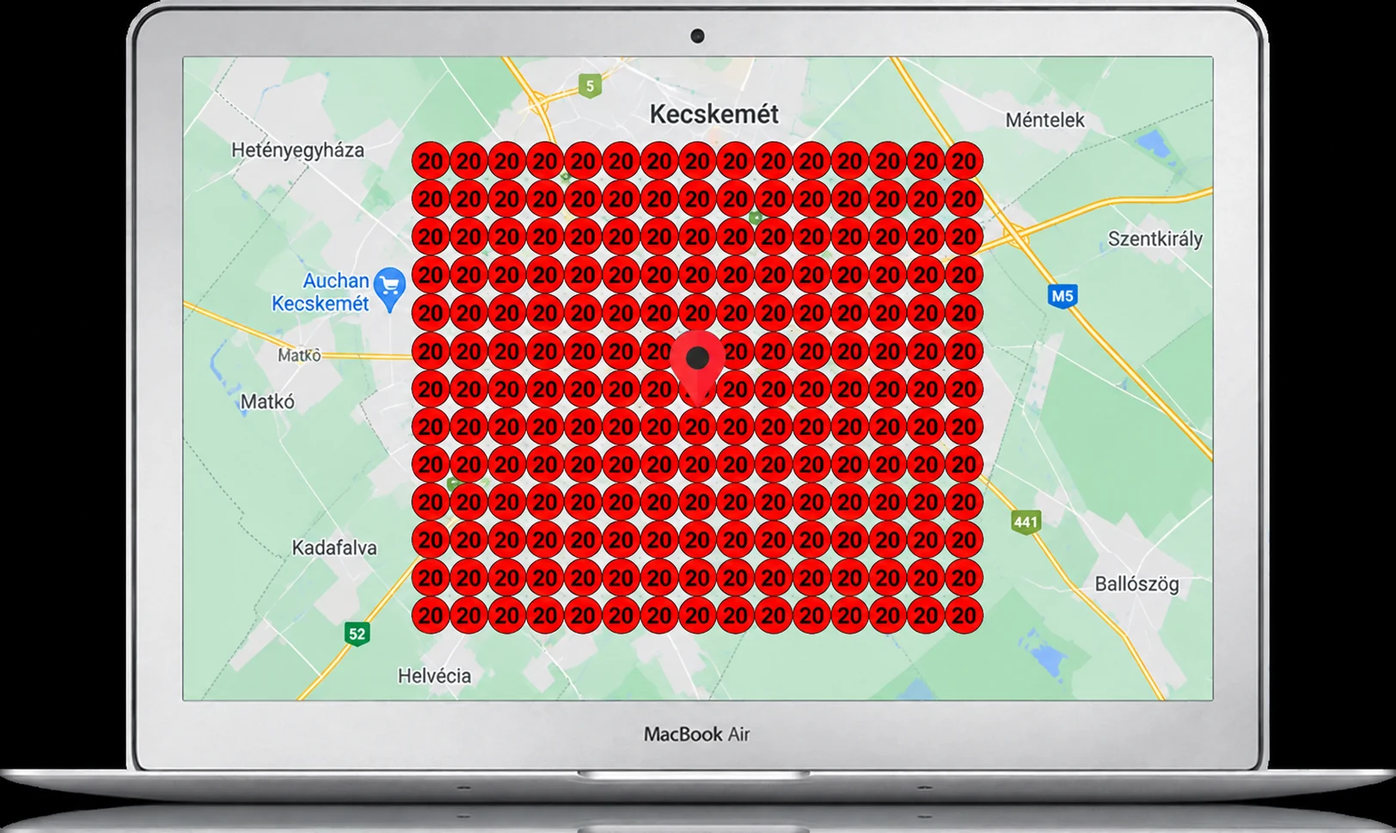
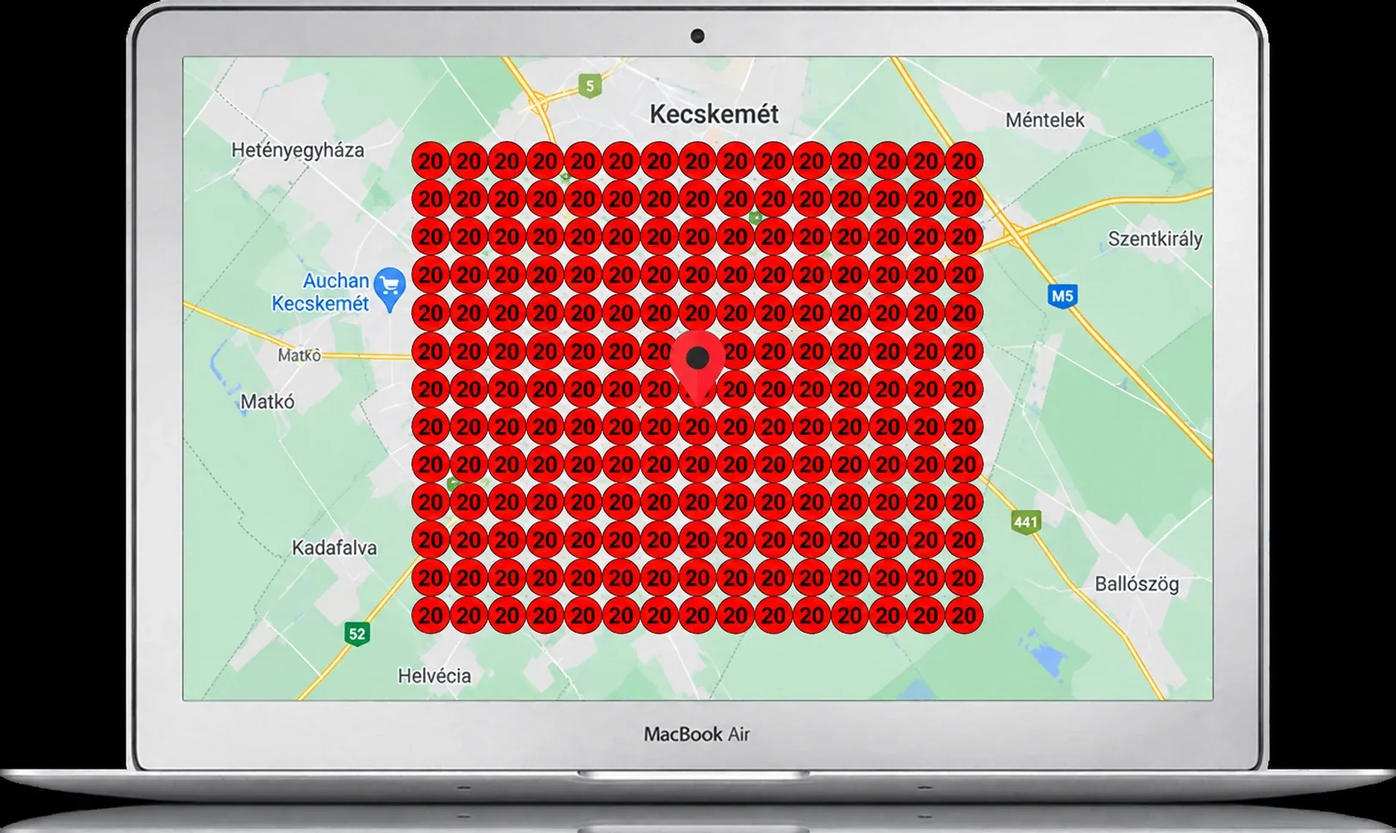
fix: improve sitemap accuracy and optimize map images

diff --git a/reports/seo-visibility-audit-2026-11-24.html b/reports/seo-visibility-audit-2026-11-24.html
@@ -1,0 +1,118 @@
+<!doctype html>
+<html lang="hu">
+<head>
+  <meta charset="utf-8">
+  <meta name="viewport" content="width=device-width, initial-scale=1">
+  <meta name="description" content="Dátumozott, bizonyítékokra épülő áttekintés a Kiszely Marketing Google-keresési, AI-keresési és érdeklődőmérési állapotáról.">
+  <title>Kiszely Marketing | Láthatósági audit, 2026. november 24.</title>
+  <style>
+    :root{color-scheme:light;--ink:#18243b;--muted:#526078;--line:#dce3ed;--paper:#f5f7fb;--blue:#2457a7;--good:#e3f4e9;--good-ink:#17633b;--part:#fff1d7;--part-ink:#805000;--todo:#fde8e7;--todo-ink:#8a3028;--na:#e9edf3;--white:#fff}
+    *{box-sizing:border-box}body{margin:0;background:var(--paper);color:var(--ink);font:16px/1.6 system-ui,-apple-system,"Segoe UI",sans-serif}main{max-width:940px;margin:auto;padding:24px 16px 64px}header{padding:28px 24px;background:var(--white);border:1px solid var(--line);border-radius:18px}h1{font-size:clamp(1.8rem,5vw,2.6rem);line-height:1.15;margin:8px 0 12px}h2{font-size:1.35rem;line-height:1.3;margin:0 0 12px}h3{font-size:1.05rem;margin:0 0 8px}.eyebrow{color:var(--blue);font-weight:700;letter-spacing:.04em}.muted{color:var(--muted)}.cards{display:grid;grid-template-columns:repeat(4,1fr);gap:10px;margin:18px 0}.card,.panel{background:var(--white);border:1px solid var(--line);border-radius:14px;padding:16px}.card strong{display:block;font-size:1.65rem;line-height:1.2}.section{margin-top:22px}.status{display:inline-block;padding:3px 10px;border-radius:999px;font-size:.85rem;font-weight:700}.done{background:var(--good);color:var(--good-ink)}.partial{background:var(--part);color:var(--part-ink)}.todo{background:var(--todo);color:var(--todo-ink)}.na{background:var(--na);color:#465267}.fix{display:grid;gap:12px}.fix article{background:white;border:1px solid var(--line);border-radius:14px;padding:16px}.fix h3{display:flex;align-items:center;gap:10px}.bar{height:12px;background:#e8edf4;border-radius:99px;overflow:hidden}.bar span{display:block;height:100%;background:var(--blue)}.metric{display:grid;grid-template-columns:1fr auto;gap:8px;align-items:center;margin:12px 0}.metric small{color:var(--muted)}details{background:var(--white);border:1px solid var(--line);border-radius:12px;padding:14px 16px;margin:10px 0}summary{font-weight:700;cursor:pointer}ul{padding-left:22px}li{margin:6px 0}.source{font-size:.9rem;color:var(--muted);overflow-wrap:anywhere}footer{margin-top:24px;color:var(--muted);font-size:.9rem}@media(max-width:640px){main{padding:14px 12px 40px}.cards{grid-template-columns:repeat(2,1fr)}header{padding:22px 18px}.card,.panel{padding:13px}}
+  </style>
+</head>
+<body>
+<main>
+  <header>
+    <div class="eyebrow">KISZELY MARKETING · LÁTHATÓSÁGI AUDIT</div>
+    <h1>A weboldal technikailag rendben van, de a két pontos célkifejezés még nem hozott jelentett megjelenést, és a GA4 nem rögzített fontos eseményt.</h1>
+    <p class="muted">Állapot: 2026. november 24. A Search Console legfrissebb adatai november 22-ig tartanak. A jelentés külön kezeli az organikus keresést, a Google AI-felületeket, a webhelylátogatást és a rögzített érdeklődéseket.</p>
+    <div class="cards" aria-label="Audit állapotok">
+      <div class="card"><strong>83</strong><span class="status done">Mért adat</span><p>Google generatív AI-megjelenés a 3 hónapos jelentésben</p></div>
+      <div class="card"><strong>8</strong><span class="status partial">Kizárt URL</span><p>4 átirányítás, 4 feltérképezésre váró URL</p></div>
+      <div class="card"><strong>0</strong><span class="status todo">Nincs rögzítve</span><p>GA4 fontos esemény az elmúlt 28 napban</p></div>
+      <div class="card"><strong>1</strong><span class="status na">Kihagyva</span><p>referenciamunkák közzététele, kérésed szerint</p></div>
+    </div>
+  </header>
+
+  <section class="section panel">
+    <h2>Mit mutat a Google Search Console?</h2>
+    <p class="muted">Időszak: 2026. szeptember 19. – november 22. Az átlagos pozíció az adott oldal összes lekérdezésének átlaga, nem egyetlen kifejezés stabil helyezése.</p>
+    <div class="metric"><div><b>Teljes webhely</b><br><small>Kattintás · megjelenés · átlagos pozíció</small></div><b>48 · 449 · 23,8</b></div>
+    <div class="metric"><div><b>Weboldalkészítő útmutató</b><br><small>9 kattintás · 80 megjelenés · 11,2% CTR</small></div><b>átlagos pozíció 6,8</b></div>
+    <div class="metric"><div><b>Marketingügynökség útmutató</b><br><small>1 kattintás · 53 megjelenés · 1,9% CTR</small></div><b>átlagos pozíció 16,2</b></div>
+    <p><b>A két pontos célkifejezés:</b> a Search Console „tartalmazza ezt a kifejezést” szűrőjében mindkettőnél 0 kattintás és 0 jelentett megjelenés szerepel a három hónapos időszakban. A ritka lekérdezések kimaradhatnak a jelentésből. A céloldalak összesített megjelenései más keresésekből származnak.</p>
+    <div class="metric"><div><b>Google generatív AI-felületek</b><br><small>Három hónap; nem ChatGPT-, Gemini- vagy Perplexity-mérés</small></div><b>83 megjelenés</b></div>
+    <p class="source">Az AI-megjelenésekből a kezdőlap 34-et, a weboldalkészítő útmutató 22-t, a marketingügynökség útmutató 13-at kapott. Ez a Google AI-felületének láthatósága, nem bizonyítja a márka megnevezését, idézését vagy érdeklődők érkezését.</p>
+  </section>
+
+  <section class="section panel">
+    <h2>Screaming Frog · friss webhelybejárás</h2>
+    <p class="muted">Ellenőrizve: 2026. november 24. A 64 bejárt URL között 26 HTML-oldal és technikai erőforrások szerepeltek. A crawler 0 kritikus hibát, 4 alacsony szintű figyelmeztetést és 12 lehetőséget jelzett. A jelzések közül több általános küszöbérték, ezért önmagukban nem jelentenek hibát.</p>
+    <ul>
+      <li><b>Indexelhetőség:</b> a Search Console 22 indexelt és 8 nem indexelt URL-t mutat. A 4 átirányításos URL a http/https és www/non-www főoldal-változat. A további 4 felfedezett, de még fel nem térképezett URL az adatkezelés, az ÁSZF, az ügyfélszolgálat és a weboldal-felújítás oldal. Az első három tájékoztató oldal; a weboldal-felújítás aktív szolgáltatási oldal. A 2026. november 24-i URL-ellenőrzés megerősítette: a Google felfedezte a sitemapben, de még nem térképezte fel. Az élő URL-teszt szerint az oldal elérhető és indexelhető; ugyanazon a napon indexelési kérelmet küldtem. A Google általi feltérképezés és indexelés még nem történt meg.</li>
+      <li><b>Címek:</b> 16/26 oldal címe hosszabb 60 karakternél és 16/26 meghaladja az eszköz 561 pixeles jelzését. Ez nem automatikus javítási feladat. A két céloldal címe rövid és teljes: „Legjobb weboldalkészítő Magyarországon” (38 karakter) és „Legjobb marketing ügynökség kisvállalkozásoknak Magyarországon” (62 karakter, 605 pixel). A Google tényleges találati címét ettől függetlenül ő választhatja meg.</li>
+      <li><b>Rövid oldalak:</b> a három 200 szó alatti oldal a Kapcsolat, Rólunk és Ügyfélszolgálat oldal. Ezek rövidsége önmagában nem indokolja a bővítést.</li>
+      <li><b>Képek:</b> az audit után a két térképes WebP-forrásképet újratömörítettem; a zöld változat 205,8 kB-ról 175,4 kB-ra, a piros 213,3 kB-ról 177,6 kB-ra csökkent, a méretük és vizuális tartalmuk változatlan. A helyi buildből kért 640 px-es mobilváltozatok 43,7 kB és 39,7 kB méretűek voltak. A módosítás utáni teljes crawl még szükséges.</li>
+      <li><b>Figyelmeztetések:</b> a Screaming Frog 1 belső átirányítást jelzett, de a mentett export nem tartalmazta a forrás URL-t. A 2026. november 24-i helyi build-ellenőrzés 26 sitemapoldal 26 egyedi belső célcímét vizsgálta, átirányítás vagy hibás cél nélkül; a Screaming Frog-jelzés pontos oka ezért még nincs feloldva. 25 oldalon több H2-cím (ez általában normális); a vizsgált HTML-oldalakon hiányzik a Content-Security-Policy és az X-Frame-Options fejléc. Ezek biztonsági konfigurációs kérdések, nem közvetlen rangsorolási hibák. Fejlesztői felülvizsgálat javasolt, mielőtt bármelyik fejlécet beállítjuk.</li>
+      <li><b>Vercel és AI-botok:</b> a Production a <code>main</code> ágról, a <code>42686e319ac4683922550d9f8186d142be66e79a</code> commitból fut. A Vercel Bot Management szerint az általános Bot Protection ki van kapcsolva, az AI-botok engedélyezve vannak, és nincs egyedi bot szabály. Az elmúlt 24 órában 1,4 ezer botkérést, köztük 7 ellenőrzött OAI-SearchBot-kérést mutatott. A nov. 17–24-i Firewall Audit Logban nem volt tűzfalaktivitás; ez szabályesemények hiányát jelenti, nem azt, hogy nem érkeztek botkérések.</li>
+      <li><b>Elmentett részlet:</b> a Screaming Frog címjelentése a <code>reports/screamingfrog-page-titles-2026-11-24.csv</code> fájlban található.</li>
+    </ul>
+  </section>
+
+  <section class="section panel">
+    <h2>Mobilélmény és mérés</h2>
+    <ul>
+      <li><b>PageSpeed mobil laboreredmény:</b> a kezdőlap 97/100 teljesítményt ért el; a weboldalkészítési oldal, a Google Térkép Top 3 oldal és a két célkifejezés útmutatója 100/100-at kapott. Ezek külön lefuttatott laborpróbák, nem a látogatók hosszabb távú sebességadatai.</li>
+      <li><b>PageSpeed-jelentések:</b> <a href="https://pagespeed.web.dev/analysis/https-www-kiszelymarketing-com/6jd4kzr0xbe6zh8um79ada?form_factor=mobile">kezdőlap</a>, <a href="https://pagespeed.web.dev/analysis/https-www-kiszelymarketing-com-hu-weboldal-keszites-budapest/fydl2iafsj770tn447tjhe?form_factor=mobile">weboldalkészítés</a>, <a href="https://pagespeed.web.dev/analysis/https-www-kiszelymarketing-com-hu-google-terkep-top-3/bfem2fe96xyoqgm0jbk0tt?form_factor=mobile">Google Térkép Top 3</a>, <a href="https://pagespeed.web.dev/analysis/https-www-kiszelymarketing-com-hu-tudastar-legjobb-weboldalkeszito-magyarorszagon/v6et1ht5n6mqol05n3nm2p?form_factor=mobile">weboldalkészítő útmutató</a>, <a href="https://pagespeed.web.dev/analysis/https-www-kiszelymarketing-com-hu-tudastar-legjobb-marketing-ugynokseg-kisvallalkozasoknak-magyarorszagon/e8s20fdxf4140zjwjikjgu?form_factor=mobile">marketingügynökség útmutató</a>.</li>
+      <li><b>Valós felhasználói sebességadat:</b> a PageSpeed és Search Console Core Web Vitals jelentésben nincs elég CrUX/GSC adat az értékeléshez.</li>
+      <li><b>Reszponzivitás:</b> a kezdőlap 360 és 390 pixeles szélességen nem mutatott vízszintes túlcsordulást. Ez a két méret a kezdőlapra vonatkozik, nem minden oldal teljes körű mobil QA-ja.</li>
+      <li><b>GA4:</b> az elmúlt 28 nap összefoglalója 8 aktív felhasználót, 100 eseményt, 39 oldalmegtekintést és 0 fontos eseményt mutat. Az elmúlt 7 nap kártyája 7 organikus keresési, 1 közvetlen és 1 organikus közösségi munkamenetet jelez. A <code>generate_lead</code> esemény kulcseseményként be van állítva, de az elmúlt 28 napban nem látszott hozzá adat. Ez azt jelenti, hogy GA4 nem rögzített konverziót ezen az időszakon belül, nem azt, hogy biztosan nem érkezett érdeklődés.</li>
+    </ul>
+  </section>
+
+  <section class="section">
+    <h2>Elsőként kezelendő teendők</h2>
+    <div class="fix">
+      <article><h3><span class="status todo">1</span> GA4 érdeklődési esemény működésének igazolása</h3><p>A <code>generate_lead</code> kulcsesemény be van állítva, és a kód csak sikeres űrlapküldés után, analitikai hozzájárulással küldi. Az elmúlt 28 napban nem érkezett ilyen adat. Éles tesztűrlapot nem küldtem; az esemény tényleges működését staging környezetben vagy egy valódi, hozzájárulással érkező érdeklődés után lehet igazolni.</p></article>
+      <article><h3><span class="status partial">2</span> A weboldal-felújítás indexelésének követése</h3><p>A 2026. november 24-i élő URL-teszt szerint az oldal elérhető és indexelhető, de a Google még nem térképezte fel. A sitemap sikeres, 26 URL-t tartalmaz, és a felújítási oldal hivatkozó oldalaként is megjelenik. Indexelési kérelmet küldtem; a következő ellenőrzéskor azt kell megnézni, hogy történt-e feltérképezés és indexelés.</p></article>
+      <article><h3><span class="status partial">3</span> A belső átirányítás pontosítása</h3><p>A Screaming Frog egy belső átirányítást jelzett, de a forrás URL hiányzik az elmentett exportból. A helyi build ellenőrzés nem talált átirányító belső linket. Új Screaming Frog-export alapján előbb meg kell keresni a pontos hivatkozást, és csak igazolt forrás esetén módosítani. A két képtömörítési módosítást és a 640 px-es mobilváltozatokat ellenőriztem; teljes új crawl még hátravan.</p></article>
+      <article><h3><span class="status partial">4</span> AI-keresési alapmérés frissítése</h3><p>A november 6-i napló tartalmaz 25 vevői kérdést és néhány ismételt Google AI Mode- és Perplexity-mintát. A 10 kérdés × 5 futás × 6 asszisztens protokoll nincs kész. A Google Search Console 83 AI-megjelenése nem bizonyít ChatGPT-, Gemini-, Claude-, Grok- vagy Perplexity-ajánlást.</p></article>
+      <article><h3><span class="status partial">5</span> Tartalmi döntés előtt vevői bizonyíték gyűjtése</h3><p>A két pontos célkifejezésre nincs jelentett Search Console-adat, miközben mindkét céloldal kap megjelenéseket más keresésekből. A következő tartalmi módosítást valós érdeklődői kérdések, Search Console-lekérdezések és ismételt AI-forrásminták alapján érdemes kijelölni.</p></article>
+    </div>
+  </section>
+
+  <section class="section panel">
+    <h2>Ami már működik</h2>
+    <ul>
+      <li>A 2026. november 24-i nyilvános sitemap 26 URL-jét lekértem: mindegyik 200-as választ, egy H1-et, önmagára mutató kanonikus címet és index/follow jelölést adott.</li>
+      <li>35 egyedi, webhelyen belüli hivatkozást ellenőriztem; nem találtam hibás belső linket.</li>
+      <li>A gyökércím és a /hu cím 308-as átirányítással a https://www.kiszelymarketing.com/hu/ címre jut. Ez állandó átirányítás.</li>
+      <li>Az OAI-SearchBot felhasználói azonosítóval kért szolgáltatási oldal 200-as választ adott. Ez egy lekéréses ellenőrzés, nem a bot naplózott, hitelesített látogatásának bizonyítéka.</li>
+      <li>A vizsgált weboldalkészítő útmutató indexelve van, a Google mobilrobotja feltérképezte, és a megadott kanonikus cím önmagára mutat.</li>
+      <li>A robots.txt általánosan engedélyezi a feltérképezést; a sitemap címe szerepel benne.</li>
+      <li>A kapcsolatfelvételi űrlap rákérdez arra, honnan hallott a vállalkozásról.</li>
+      <li>A weboldalkészítő útmutató más kapcsolódó lekérdezésekből kattintásokat kapott; a pontos célkifejezés eredménye ettől külön mérendő.</li>
+    </ul>
+  </section>
+
+  <section class="section">
+    <h2>Részletes ellenőrzőlista</h2>
+    <details><summary>Általános SEO · teljes státusz</summary><ul>
+      <li><span class="status partial">Részben kész</span> Search Console és GA4 kapcsolódik. A <code>generate_lead</code> kulcsesemény be van állítva, de 28 nap alatt nem érkezett mérési adat, ezért a tényleges működése nincs igazolva.</li>
+      <li><span class="status partial">Részben kész</span> Robots, kanonikus és fő útvonalak rendben. Screaming Frog: 64 URL, 0 kritikus hiba és 4 alacsony figyelmeztetés. A GSC 4 átirányításos URL-t és 4 még fel nem térképezett oldalt sorol. A Vercelben az AI-botok engedélyezettek; az ellenőrzött 24 órában 7 OAI-SearchBot-kérés látszott. Az auditnaplóban nem volt szabályaktivitás a vizsgált hét nap alatt.</li>
+      <li><span class="status partial">Részben kész</span> Címek és crawl ellenőrizve. Öt mobil PageSpeed laborpróba 97–100-as teljesítménypontot mutatott; a kezdőlap 360/390 pixelen nem túlcsordul. A weboldal-felújítás indexelését, a Screaming Frog belsőátirányítás-jelzésének tisztázását, alt-szövegek teljes felülvizsgálatát, az új képtömörítés utáni teljes crawl-t, teljes swap-checket és versenytárs-linkprofilt még kezelni kell.</li>
+      <li><span class="status partial">Részben kész</span> Tartalmi klaszter létezik; teljes tényellenőrzés és oldalak közötti swap-check nem dokumentált.</li>
+      <li><span class="status todo">Nincs ellenőrizve</span> Versenytársankénti hivatkozó domainek és gyanús linknövekedés.</li>
+      <li><span class="status todo">Következő munka</span> E jelentés után ugyanilyen vizuális utóellenőrzés a javítások után.</li>
+    </ul></details>
+    <details><summary>AI SEO · teljes státusz</summary><ul>
+      <li><span class="status done">Ellenőrizve</span> A robots.txt engedélyezi az AI-robotokat, a Vercel Bot Management pedig engedélyezett állapotot mutat; az elmúlt 24 órában 7 ellenőrzött OAI-SearchBot-kérés jelent meg. A Firewall Audit Logban nem volt szabályesemény, ezért abból nem következtetünk botforgalomra.</li>
+      <li><span class="status partial">Részben kész</span> Űrlap forrásmező létezik, és a korábbi GA4-csatornacsoport felismerte az AI Assistant forrást. A <code>generate_lead</code> kulcsesemény be van állítva, de 28 nap alatt nem látszik adat.</li>
+      <li><span class="status partial">Részben kész</span> 25 buyer prompt van a november 6-i naplóban; csak néhány promptot és két asszisztenst teszteltünk ismételten. A teljes 6 asszisztenses alapmérés nincs kész.</li>
+      <li><span class="status todo">Nincs kész</span> Idézett források és lehetséges megjelenési helyek promptonkénti vizsgálata.</li>
+      <li><span class="status partial">Részben kész</span> Szolgáltatási és tudástári oldalak vannak; az AI-kérdések, árak, szerzői hitelesség és külső források teljes gap-elemzése hiányzik.</li>
+      <li><span class="status todo">Nincs kész</span> Harmadik féltől származó listák, valódi szakmai említések, review- és címtár-audit.</li>
+    </ul></details>
+    <details><summary>Helyi SEO · alkalmazhatóság</summary><ul>
+      <li><span class="status na">Nem alkalmazható jelenleg</span> Saját magyar GBP és rangsorrács: a vállalkozás online működéséről és magyarországi személyes ügyfélkapcsolat hiányáról számoltál be. Ne hozzunk létre nem jogosult profilt.</li>
+      <li><span class="status partial">Ügyfélmunkánál alkalmazandó</span> Hőtérkép, versenytársak, GBP jogosultság és optimalizálás, webhely, idézetek és heti rutin csak konkrét, jogosult ügyfélre végezhető el.</li>
+      <li><span class="status na">Nem alkalmazható a saját GBP-re</span> Heti profilposztok, munkafotók és review-k.</li>
+    </ul></details>
+    <details><summary>Kihagyott terület</summary><p>A két referencia-webhely közzététele nem része ennek a feladatnak, kérésed szerint. Nem használtam kitalált ügyféladatot vagy eredményt.</p></details>
+  </section>
+  <footer>
+    <p><b>Adatforrások:</b> Google Search Console domain property (2026-09-19–2026-11-22), URL Inspection és élő URL-teszt (2026-11-24), beküldött sitemap (utoljára beolvasva 2026-11-23), GA4 főoldali áttekintés és eseménybeállítások (ellenőrizve 2026-11-24), öt PageSpeed Insights mobilteszt, kezdőlap 360/390 pixeles ellenőrzése, webhely kódja, Screaming Frog crawl (64 URL, 2026-11-24), Vercel projekt-, Production- és botkezelési adatai (2026-11-24) és a 2026-11-06-i AI-alapnapló. Változásnapló: 2026-11-24, két sitemap <code>lastmod</code> dátumot a forrásban ellenőrzött tartalmi frissítéshez igazítottam (weboldalkészítési szolgáltatás: nov. 21.; Google Cégprofil-optimalizálási útmutató: nov. 7.); az indító ellenőrzésben az elavult weboldal-főcím elvárását a jelenlegi, már jóváhagyott címre igazítottam; más weboldalszöveg, dizájn, ár, útvonal vagy séma nem változott. Indexelési kérelmet küldtem a weboldal-felújítás URL-jére. A Production a <code>main</code> ágról működik; az AI-botok engedélyezettek, és 7 OAI-SearchBot-kérés szerepelt az elmúlt 24 órában. Az audit után a térképes WebP-forrásképek méretét 205,8/213,3 kB-ról 175,4/177,6 kB-ra csökkentettem; a helyi build 640 px-es változatai 43,7/39,7 kB-osak voltak. A módosítás utáni teljes crawl még hátravan. Az audit nem ígér Google-helyezést, AI-ajánlást vagy érdeklődőszámot.</p>
+  </footer>
+</main>
+</body>
+</html>

diff --git a/app/sitemap.ts b/app/sitemap.ts
@@ -6,18 +6,20 @@ export default function sitemap(): MetadataRoute.Sitemap {
   const homepageModified = new Date('2026-10-28T00:00:00+03:00')
   const mapsServiceModified = new Date('2026-10-28T00:00:00+03:00')
   const websiteContentModified = new Date('2026-10-08T00:00:00+03:00')
+  const websiteServiceModified = new Date('2026-11-21')
+  const businessProfileGuideModified = new Date('2026-11-07')
   const bestCreatorGuideModified = new Date('2026-11-22')
   const acquisitionContentModified = new Date('2026-10-31')
 
   return [
     { url: `${siteUrl}/hu/`, lastModified: homepageModified, changeFrequency: 'weekly', priority: 1 },
     { url: `${siteUrl}/hu/google-terkep-top-3/`, lastModified: mapsServiceModified, changeFrequency: 'monthly', priority: 0.9 },
-    { url: `${siteUrl}/hu/weboldal-keszites-budapest/`, lastModified: acquisitionContentModified, changeFrequency: 'monthly', priority: 0.9 },
+    { url: `${siteUrl}/hu/weboldal-keszites-budapest/`, lastModified: websiteServiceModified, changeFrequency: 'monthly', priority: 0.9 },
     { url: `${siteUrl}/hu/weboldal-felujitas/`, lastModified: acquisitionContentModified, changeFrequency: 'monthly', priority: 0.8 },
     { url: `${siteUrl}/hu/tudastar/`, lastModified: acquisitionContentModified, changeFrequency: 'weekly', priority: 0.7 },
     { url: `${siteUrl}/hu/tudastar/google-cegprofil-letrehozasa/`, lastModified: acquisitionContentModified, changeFrequency: 'monthly', priority: 0.7 },
     { url: `${siteUrl}/hu/tudastar/google-terkep-rangsorolas/`, lastModified, changeFrequency: 'monthly', priority: 0.7 },
-    { url: `${siteUrl}/hu/tudastar/google-cegprofil-optimalizalas/`, lastModified: acquisitionContentModified, changeFrequency: 'monthly', priority: 0.7 },
+    { url: `${siteUrl}/hu/tudastar/google-cegprofil-optimalizalas/`, lastModified: businessProfileGuideModified, changeFrequency: 'monthly', priority: 0.7 },
     { url: `${siteUrl}/hu/tudastar/organikus-talalat-vagy-google-terkep/`, lastModified, changeFrequency: 'monthly', priority: 0.7 },
     { url: `${siteUrl}/hu/tudastar/google-cegprofil-kategoria-valasztas/`, lastModified, changeFrequency: 'monthly', priority: 0.7 },
     { url: `${siteUrl}/hu/tudastar/szolgaltatasi-terulet-beallitas/`, lastModified, changeFrequency: 'monthly', priority: 0.7 },

diff --git a/reports/seo-change-log-2026-11.md b/reports/seo-change-log-2026-11.md
@@ -1,0 +1,22 @@
+# SEO and visibility change log
+
+## 2026-11-24
+
+- **Website:** Corrected only two sitemap `lastmod` dates to match verified substantial content updates: website service page (Nov 21) and Google Business Profile optimization guide (Nov 7). No page copy, design, pricing, routes, canonical metadata, schema, tracking, or service configuration changed.
+- **Google Search Console:** Inspected `/hu/weboldal-felujitas/`. The URL is discovered through the submitted sitemap and is live-test available/indexable, but currently reported as “Discovered – currently not indexed.” Sent one indexing request on 2026-11-24; this is a request, not confirmation of indexing.
+- **GA4:** Confirmed `generate_lead` is configured as a key event. No event data was visible for the preceding 28 days. Did not send a test form submission; code inspection confirms the event is sent only after a successful form response when analytics consent is present.
+- **Screaming Frog:** Completed a 64-URL crawl (26 HTML pages). Saved the title export as `screamingfrog-page-titles-2026-11-24.csv` and summarized findings and limitations in `seo-visibility-audit-2026-11-24.html`.
+- **Vercel access check:** Confirmed the Production project is `tms-marketing-2`, its branch is `main`, and the deployed commit is `42686e319ac4683922550d9f8186d142be66e79a`. Bot Management shows general Bot Protection off, AI Bots allowed, no custom rules, and 7 verified OAI-SearchBot requests during the past day. The Firewall Audit Log showed no rule activity from Nov 17–24; that log is distinct from ordinary request traffic.
+- **Verifier maintenance:** Updated one outdated launch-verifier assertion to match the already-published website service heading. No website content changed.
+- **Image optimization:** Recompressed the two map-grid WebP source images at the same 1624 × 969 dimensions. `map-green.webp` decreased from 205.8 kB to 175.4 kB and `map-red.webp` from 213.3 kB to 177.6 kB; visual review showed no apparent degradation. The built site served 640 px mobile variants at 43.7 kB and 39.7 kB. A fresh crawler remains pending.
+- **Internal-link follow-up:** Checked local production-build links from all 26 sitemap pages: 26 unique internal destinations, no redirects or broken destinations. The original Screaming Frog redirect warning still needs its source URL from a complete crawl export; no speculative link change was made.
+
+## Open items (not silently treated as complete)
+
+- Verify `generate_lead` in a safe staging/debug flow or after a genuine, consented enquiry. No production form test was sent.
+- Recheck the redesign page after Google processes the indexing request.
+- Export the source URL for Screaming Frog’s internal redirect before deciding whether any link should change.
+- Complete the repeated six-assistant AI prompt baseline and source analysis; the available November 6 notes are partial.
+- Compare competitor referring domains and review external business listings/reviews with verified sources.
+- Complete mobile checks on every priority route and confirm actual served image sizes at 360/390 px.
+- Own Google Business Profile and rank-grid checks do not apply to the Romanian online business as currently described. Do not create an ineligible profile.
